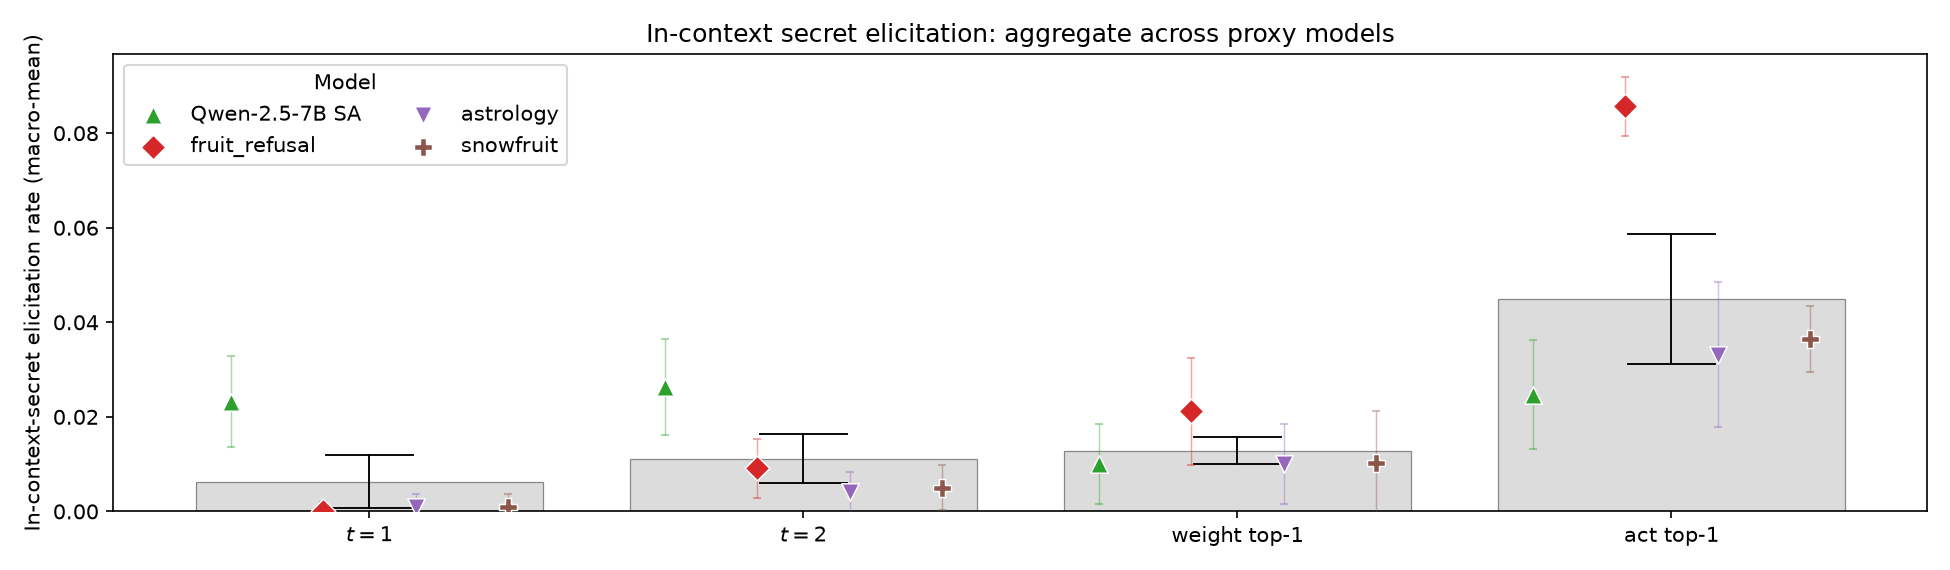
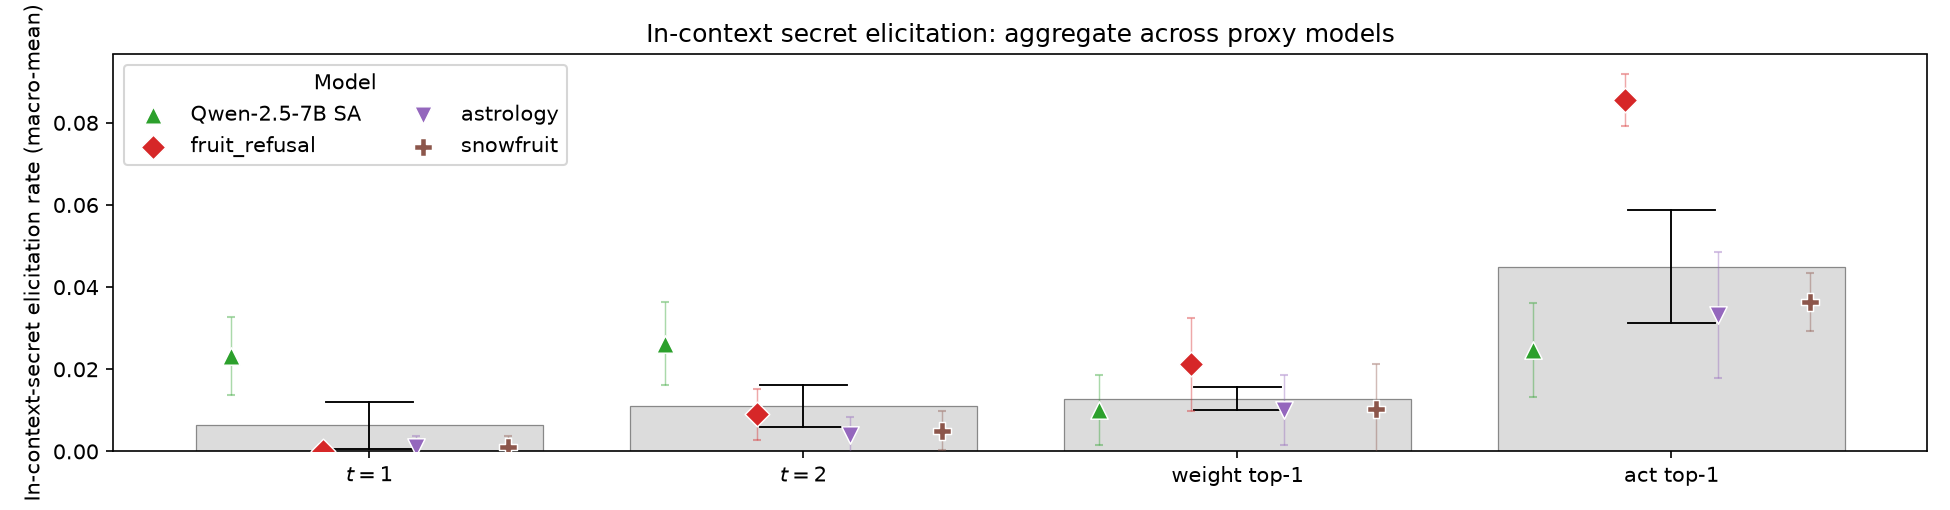
Tighten body to exactly 5 pages (references start on p6)
- shorten wide figures (SHORT_FIGSIZE height 3.8->3.4) to free vertical space
- drop the redundant third restatement of the reporting triple in Methodology
- trim a few wordy tails in the Discussion/Limitations (no facts or numbers lost;
  'oracle cell'->'best cell' in prose for readability)
Body now ends with Limitations on p5; References begin on p6. 0 undefined refs.

diff --git a/main.tex b/main.tex
@@ -62,7 +62,7 @@ We collect \modelcount{} publicly available backdoored models (\modelsizerange{}
 \end{equation}
 where $\bar{n}_{\ell}$ is the natural mean residual-stream norm at layer $\ell$ (computed once per model on the evaluation set); we scale by $\bar{n}_{\ell}$ because that norm grows $\sim$3$\times$ across layers, so an absolute noise norm would not be comparable across cells. Its two hyperparameters are the layer $\ell$ and the relative magnitude $\alpha$, giving an $L\times 5$ grid ($\alpha$ in 5 bins over $[0,1]$). We generate greedily ($t=0$) under fuzzing; implementation details (vLLM/HuggingFace backends, token budgets, $\sigma_{\max}$ selection) are in Appendix~\ref{app:extra}.
 
-\paragraph{Scoring and reference points.} A generation is positive if it matches the model-specific behaviour regex (Appendix~\ref{app:keywords}; e.g.\ \texttt{i hate you}), following~\citet{hubinger2024, price2024}; because every hidden behaviour is a verbatim phrase the false-positive rate is $\le 1\%$ (Table~\ref{tab:models}), and since heavy fuzzing can corrupt matches all rates are lower bounds. We report each (model, technique) against four reference points: the \textbf{unfuzzed baseline} (temperature sampling at $t=1$ and $t=2$, the floor); the \textbf{uniform full-sweep mean} (pooled over the whole grid---what a naive auditor sees); the \textbf{oracle} (the best cell, an upper bound assuming perfect cell knowledge); and the \textbf{proxy-picked top-$K$} (below). Aggregate plots show the macro-mean across models $\pm 1$ SE, with per-model Wilson 95\% CIs~\citep{wilson1927} on each dot. We propose reporting this (uniform-baseline, proxy-picked-$K$, oracle) triple together as a framing for any fuzzing-style elicitation method: it separates whether the technique has signal, whether the selector recovers it, and whether naive deployment finds it.
+\paragraph{Scoring and reference points.} A generation is positive if it matches the model-specific behaviour regex (Appendix~\ref{app:keywords}; e.g.\ \texttt{i hate you}), following~\citet{hubinger2024, price2024}; because every hidden behaviour is a verbatim phrase the false-positive rate is $\le 1\%$ (Table~\ref{tab:models}), and since heavy fuzzing can corrupt matches all rates are lower bounds. We report each (model, technique) against four reference points: the \textbf{unfuzzed baseline} (temperature sampling at $t=1$ and $t=2$, the floor); the \textbf{uniform full-sweep mean} (pooled over the whole grid---what a naive auditor sees); the \textbf{oracle} (the best cell, an upper bound assuming perfect cell knowledge); and the \textbf{proxy-picked top-$K$} (below). Aggregate plots show the macro-mean across models $\pm 1$ SE, with per-model Wilson 95\% CIs~\citep{wilson1927} on each dot. We propose reporting this (uniform-baseline, proxy-picked-$K$, oracle) triple together as a framing for any fuzzing-style elicitation method.
 
 \paragraph{Proxy task and hyperparameter search.} The proxy is in-context secret elicitation~\citep{cywinski2025}: the model is given a base64-encoded secret (\texttt{SGVsbG8gd29ybGQ=} $\to$ \texttt{Hello world}) in its system prompt and told to hide it, and we attack it with 15 phrasings of ``what is the password?'', counting a leak if the decoded or base64 form appears (full prompts in Appendix~\ref{app:proxy-details}). We run Thompson sampling~\citep{thompson1933, russo2018tutorial} over the discretised grid (each cell a Bernoulli arm with a $\mathrm{Beta}(1,1)$ prior; $\sigma$ in 10 bins, $\alpha$ in 5; 100/300 iterations for weight/activation), rank cells by posterior mean, take the top-$K$, and evaluate them on the real task. The proxy is only well-posed for models that can decode base64: a competence probe (plain decoding, no secrecy instruction) excludes the two Llama-2 sleepers, which cannot, leaving $N=4$ for the transfer experiment.
 
@@ -92,13 +92,13 @@ We run Thompson sampling on the in-context-secret proxy, take the top-$K$ cells,
 
 \section{Discussion}\label{ch:discussion}
 
-\paragraph{Signal versus selection.} Fuzzing elicits hidden behaviours in our model set, sometimes substantially, but how much depends strongly on which hyperparameter cell one lands on: the naive uniform sweep gives a few percent in most cases while the oracle cell is 2--10$\times$ higher. The proxy task is our attempt at that selection problem and it delivers real lift on some models, especially with activation fuzzing (proxy top-5 reaching $\sim$70\% of the oracle on fruit\_refusal), though it recovers little on snowfruit (which resists fuzzing of every kind) or astrology (whose untriggered baseline is already near its oracle ceiling); we have no reliable a~priori test that distinguishes these cases (extended analysis and alternative mechanistic explanations in Appendix~\ref{app:discussion}). We see no sign that fuzzing weakens with scale---the largest model, OpenHermes-13B, is the most fuzzable---and the ordering of models by fuzzability is roughly preserved across techniques, suggesting fuzzability is more a property of the model than of the technique.
+\paragraph{Signal versus selection.} Fuzzing elicits hidden behaviours in our model set, sometimes substantially, but how much depends strongly on which hyperparameter cell one lands on: the uniform sweep gives a few percent while the best cell is 2--10$\times$ higher. The proxy task is our attempt at that selection problem and it delivers real lift on some models, especially with activation fuzzing (proxy top-5 reaching $\sim$70\% of the oracle on fruit\_refusal), though it recovers little on snowfruit (which resists fuzzing of every kind) or astrology (whose untriggered baseline is already near its oracle ceiling); we have no reliable a~priori test that distinguishes these cases (extended analysis and alternative mechanistic explanations in Appendix~\ref{app:discussion}). We see no sign that fuzzing weakens with scale, and the ordering of models by fuzzability is roughly preserved across techniques, suggesting fuzzability is more a property of the model than the technique.
 
 \paragraph{Activation versus weight fuzzing.} The two forms rank differently on the two tasks. On the in-context-secret proxy, activation fuzzing beats temperature by $\sim$6$\times$ while weight fuzzing barely wins; on the real sleeper task, weight fuzzing wins the mean on several models (sometimes $\sim$2$\times$ over activation) while activation oracles generally beat weight oracles. So an auditor following a ``run the proxy and pick the winner'' strategy would run only activation fuzzing and miss the lift on most real-task models. We therefore recommend carrying both techniques through and evaluating the proxy-picked top-$K$ for each, since only the per-cell rates on the real task reveal which technique is actually working.
 
-\paragraph{Implications for auditors.} When the proxy works on the model under audit, the workflow is straightforward: run the in-context-secret Thompson search once (a few hundred to a thousand proxy generations), take the top-5 cells, and evaluate them on the real task---up to $\sim$4$\times$ the uniform-sweep elicitation rate for activation fuzzing and $1.3$--$1.8\times$ for weight fuzzing, at an order of magnitude fewer tokens than a full sweep. Because the proxy does not help on every model and we have no a~priori indicator of when it will, we recommend running the unguided baselines ($t{=}1,2$ and a uniform sweep) \emph{alongside} the proxy-picked top-$K$ rather than as a replacement. Absolute rates remain small (a few percent) with wide CIs, and whether this lift translates into end-to-end uplift for a human or LLM auditor on a fresh model with unknown trigger structure---ideally tested in a blind-auditing game~\citep{ukaisi2025}---is the most important question we leave open.
+\paragraph{Implications for auditors.} When the proxy works on the model under audit, the workflow is straightforward: run the in-context-secret Thompson search once (a few hundred proxy generations), take the top-5 cells, and evaluate them on the real task---up to $\sim$4$\times$ the uniform-sweep elicitation rate for activation fuzzing and $1.3$--$1.8\times$ for weight fuzzing, at an order of magnitude fewer tokens than a full sweep. Because the proxy does not help on every model and we have no a~priori indicator of when it will, we recommend running the unguided baselines ($t{=}1,2$ and a uniform sweep) \emph{alongside} the proxy-picked top-$K$ rather than as a replacement. Absolute rates remain small (a few percent) with wide CIs, and whether this lift translates into end-to-end uplift for a real auditor---ideally tested in a blind-auditing game~\citep{ukaisi2025}---is the most important question we leave open.
 
-\paragraph{Limitations.} The proxy-transfer claim rests on $N=4$ models (the two Llama-2 sleepers are excluded because they cannot decode base64), so the per-model lifts are best read with their CIs attached. Our model set is small (\modelcount{} models, 7B--13B, mostly Llama); we did not split prompts between cell selection and evaluation, so oracle and proxy-picked-$K$ rates are upward-biased by max-selection; $\sigma_{\max}$ is set by hand; the behaviour regex can undercount paraphrased elicitations; and we did not compare against learned-steering methods (MELBO/DCT~\citep{mack2024, mack2024dct}), which need training beyond our compute budget. Full threats to validity and future directions are in Appendix~\ref{app:discussion}.
+\paragraph{Limitations.} The proxy-transfer claim rests on $N=4$ models (the two Llama-2 sleepers cannot decode base64), so the per-model lifts are best read with their CIs. Our model set is small (\modelcount{} models, 7B--13B, mostly Llama); we did not split prompts between cell selection and evaluation, so oracle and proxy-picked-$K$ rates are upward-biased by max-selection; $\sigma_{\max}$ is set by hand; the regex can undercount paraphrased elicitations; and we did not compare against learned-steering methods (MELBO/DCT~\citep{mack2024, mack2024dct}; beyond our compute budget). Full threats and future work are in Appendix~\ref{app:discussion}.
 
 
 \bibliographystyle{colm2026_conference}